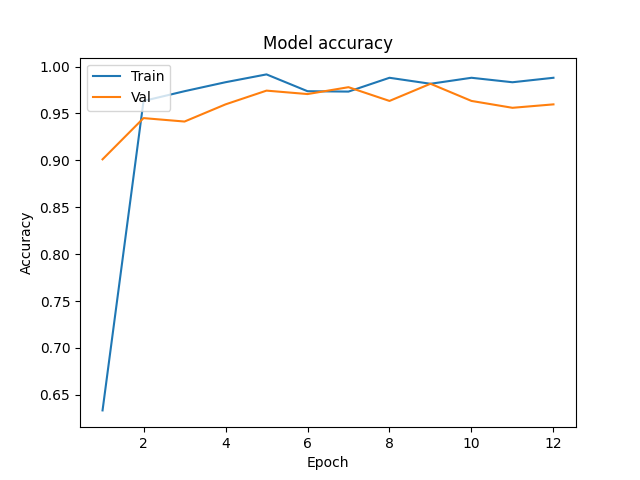
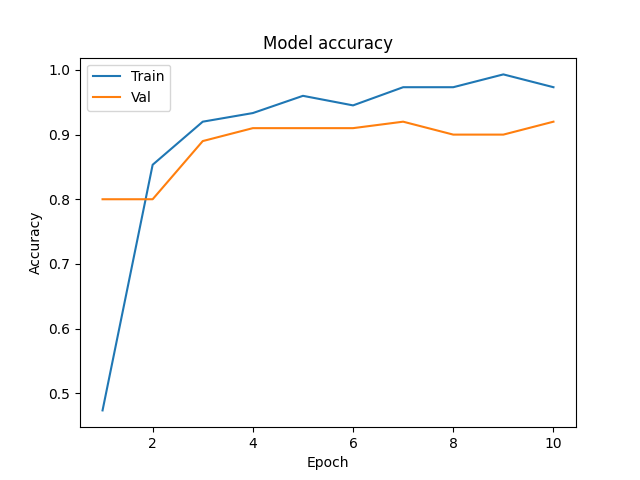
update watch data

diff --git a/room_classifier/room_classifier_train.py b/room_classifier/room_classifier_train.py
@@ -94,6 +94,9 @@ def train2(train_generator, validation_generator, model, epoch = 1):
                         steps_per_epoch=3,
                         validation_steps=2,
                         verbose=1)
+
+    #print(history.history['accuracy'])
+    #print(history.history['val_accuracy'])
     
     plot_learningCurve(history, epoch)
 
@@ -117,8 +120,9 @@ def predict(file, model, to_class):
     
 
 DIR = "/home/ascc/LF_Workspace/Bayes_model/IROS23/ADL_HMM_BAYES/room_classifier/room_dataset/"
+DIR = '/home/ascc/LF_Workspace/Bayes_model/IROS23/ADL_HMM_BAYES/room_classifier/watch_dataset/Image/'
 IMG_WIDTH, IMG_HEIGHT = 299, 299 # set this according to keras documentation, each model has its own size
-BATCH_SIZE = 200 # decrease this if your computer explodes
+BATCH_SIZE = 50 # decrease this if your computer explodes
 
 train_generator, validation_generator = create_generators(DIR + "labelled", DIR + "validation")
 
@@ -130,12 +134,12 @@ m = create_model(total_classes)
 # Run this several times until you get good acurracy in validation (wachout of overfitting)
 # for i in range(MAX_EPOCH):
 #     train(train_generator, validation_generator, m)
-train2(train_generator, validation_generator, m, epoch=12)
+train2(train_generator, validation_generator, m, epoch=10)
 
 
 
 # execute this when you want to save the model
-MODEL_SAVED_PATH = 'saved-model2'
+MODEL_SAVED_PATH = 'watch-saved-model'
 m.save(MODEL_SAVED_PATH)
 
 # execute this when you want to load the model

diff --git a/room_classifier/room_test.py b/room_classifier/room_test.py
@@ -165,7 +165,7 @@ def room_sample_plot():
 def test():
     # execute this when you want to load the model
     from keras.models import load_model
-    MODEL_SAVED_PATH = 'saved-model2'
+    MODEL_SAVED_PATH = 'watch-saved-model'
 
     ml = load_model(MODEL_SAVED_PATH)
     ml.summary()
@@ -209,6 +209,7 @@ def test():
 
 def get_confusion_matrix():
     dir = './room_dataset/test/'
+    dir = '/home/ascc/LF_Workspace/Bayes_model/IROS23/ADL_HMM_BAYES/room_classifier/watch_dataset/Image/test/'
     path = dir
     y_test = []
     y_pred = []
@@ -263,7 +264,7 @@ def get_confusion_matrix():
 
 def test_confusion_matrix(file_dir):
     from keras.models import load_model
-    MODEL_SAVED_PATH = 'saved-model2'
+    MODEL_SAVED_PATH = 'watch-saved-model'
 
     ml = load_model(MODEL_SAVED_PATH)
     
